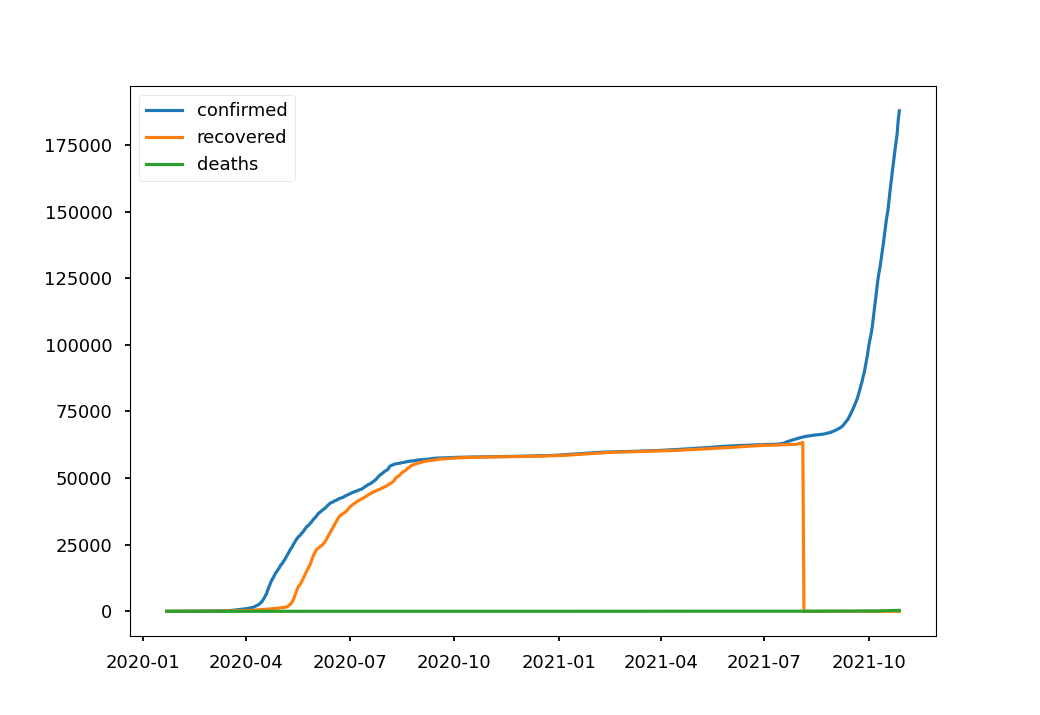
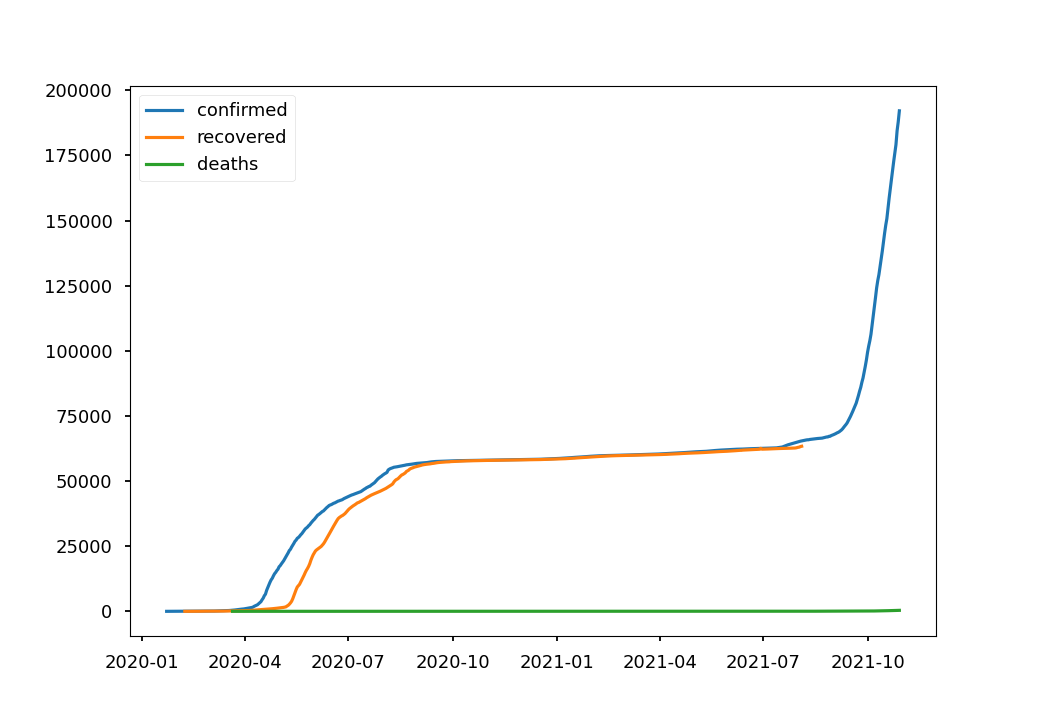
[Update] Changed zero values to NA so as to not reflect when recovered cases data are no longer collected

diff --git a/sg_covid_cases/sg_covid_cases.py b/sg_covid_cases/sg_covid_cases.py
@@ -1,6 +1,7 @@
-import requests
-import pandas as pd
 import matplotlib.pyplot as plt
+import numpy as np
+import pandas as pd
+import requests
 plt.style.use('seaborn-talk')
 
 country = "Singapore"
@@ -20,6 +21,8 @@ for case_type in case_types:
     else:
         main_df = main_df.merge(df, how='outer', on="Date")
         
+main_df.replace(to_replace=0, value=np.nan, inplace=True)
+
 for case_type in case_types:
     plt.plot(main_df["Date"], main_df[case_type], label = case_type)
 plt.legend()
